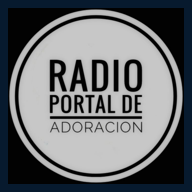
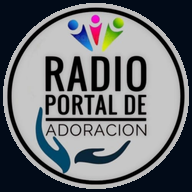
Add files via upload

diff --git a/service-worker.js b/service-worker.js
@@ -1,9 +1,5 @@
-const CACHE='radio-portal-adoracion-v1';
-const APP_SHELL=['./','./index.html','./manifest.webmanifest','./icon-192.png','./icon-512.png'];
-self.addEventListener('install',e=>{e.waitUntil(caches.open(CACHE).then(c=>c.addAll(APP_SHELL)));self.skipWaiting();});
-self.addEventListener('activate',e=>{e.waitUntil(caches.keys().then(k=>Promise.all(k.filter(x=>x!==CACHE).map(x=>caches.delete(x)))));self.clients.claim();});
-self.addEventListener('fetch',e=>{
- const u=new URL(e.request.url);
- if(u.hostname==='masservidor.net'||e.request.method!=='GET')return;
- e.respondWith(caches.match(e.request).then(c=>c||fetch(e.request).then(r=>{const q=r.clone();caches.open(CACHE).then(x=>x.put(e.request,q));return r;}).catch(()=>caches.match('./index.html'))));
-});
+const CACHE="radio-portal-modern-v1";
+const APP=["./","./index.html","./manifest.webmanifest","./icon-192.png","./icon-512.png","./logo.jpg","./hero-bg.jpg","./bible-scene.jpg"];
+self.addEventListener("install",e=>e.waitUntil(caches.open(CACHE).then(c=>c.addAll(APP)).then(()=>self.skipWaiting())));
+self.addEventListener("activate",e=>e.waitUntil(caches.keys().then(keys=>Promise.all(keys.filter(k=>k!==CACHE).map(k=>caches.delete(k)))).then(()=>self.clients.claim())));
+self.addEventListener("fetch",e=>{const u=new URL(e.request.url);if(u.origin!==location.origin)return;e.respondWith(caches.match(e.request).then(r=>r||fetch(e.request).then(res=>{if(res.ok){const cp=res.clone();caches.open(CACHE).then(c=>c.put(e.request,cp));}return res;}).catch(()=>caches.match("./index.html"))));});

diff --git a/README.md b/README.md
@@ -1,0 +1,13 @@
+# Radio Portal de Adoración — versión moderna
+
+Proyecto listo para GitHub Pages y PWA.
+
+- Radio en vivo: https://masservidor.net:8280/stream
+- Compartir copia/abre el enlace público de GitHub Pages.
+- WhatsApp, Facebook e Instagram enlazados.
+- Logo nuevo usado en encabezado, reproductor y tarjeta.
+- Fondo escénico y fondo de versículo incluidos como archivos locales.
+- No depende de fuentes externas ni bibliotecas para que cargue rápido.
+
+## Publicación
+Sube todos los archivos de esta carpeta a la raíz del repositorio `radio-portal-adoracion` y deja GitHub Pages en `main` / `(root)`.
